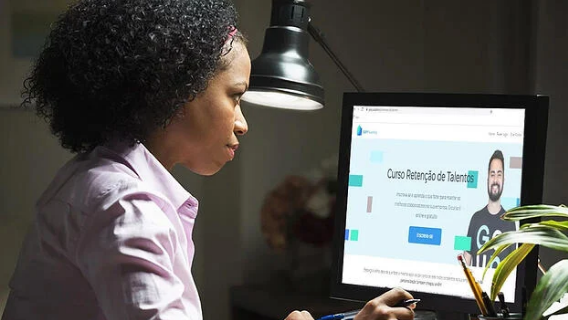
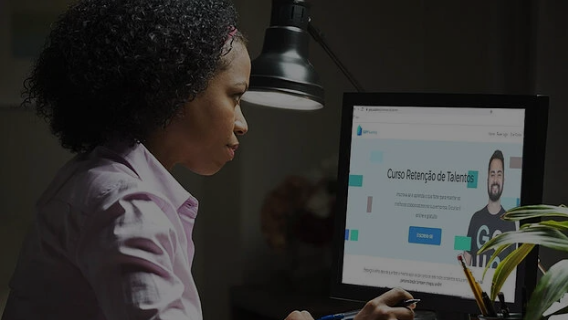
Visual geral
-Tirei o fundo escuro dos "h2" e "p"]

-Deixei as imagens mais escuras pra visualização melhor do texto.

-Adicionei o botão de login com um visual bem chamativo.

-Mudei a imagem de logo pra "gabrielmini.jpg", favor usar apenas essa a partir de agora

-Aumentei a fonte na parte "Quem Somos"

-Adicionei uma logo bem grande no meio da tela

diff --git a/Projeto Produza+/public/styleLogin.css b/Projeto Produza+/public/styleLogin.css
@@ -1,0 +1,152 @@
+:root{
+    --input-error: rgb(255, 71, 71);
+    --input-success: green;
+    --button-linear: linear-gradient(120deg, rgba(56, 25, 85, 0.8), rgba(255, 0, 234, 0.8), rgba(48, 26, 66, 0.8));
+    --button-disabled: #acacac;
+    --white: #fff;
+    --black: #303030;
+    --gray: #929292;
+    --light-gray: #cfcfcf;
+    --border-height: 1px;
+}
+
+body{
+    margin: 0;
+    padding: 0;
+    font-family: sans-serif;
+}
+.login{
+    width: 100vw;
+    height: 100vh;
+    background: url("./imgs/main.jpg"); 
+    background-size: cover;
+    margin: 0;
+    display: flex;
+    justify-content: center;
+    align-items: center;
+}
+
+.login__container{
+    min-height: 400px;
+    width: 380px;
+    background-color: #ffffff;
+    box-sizing: border-box;
+    padding: 32px;
+    border-radius: 8px;
+    display: flex;
+    flex-direction: column;
+    align-items: center;
+    margin-top: 1%;
+}
+.login__form {
+    width: 100%;
+    display: flex;
+    flex-direction: column;
+    align-items: center;
+    justify-items: center;
+}
+
+#logo{
+    margin-bottom: 12%;
+    text-align: center;
+    font-family: Arial, Helvetica, sans-serif;
+    background-color: rgba(0, 0, 0, 0); 
+    max-height: 100px;
+}
+
+input{
+    font-size: 15px;
+    padding: 2%;
+}
+a{
+    color: #303030;
+    text-decoration: none;
+}
+.login__reset {
+    text-align: center;
+    font-size: 14px;
+    font-weight: bold;
+    color: #303030;
+    text-decoration: none;
+} 
+.h3, h3{
+    margin-top: 5px;
+    text-align: center;
+    font-size: 14px;
+    font-weight: bold;
+    color: #303030;
+    text-decoration: none;
+}
+.h2, h2{
+    text-align: center;
+    font-size: 14px;
+    font-weight: bold;
+    color: #303030;
+    text-decoration: none;
+}
+.login__input-border{
+    height: 1px;
+    width: 100%;
+    margin-bottom: 16px;
+    background: #cfcfcf;
+    transition: .3s ease-in-out;
+}
+.login__input{
+    height: 48px;
+    width: 100%;
+    box-sizing: border-box;
+    border: unset;
+    outline: none;
+    padding-left: 8px;
+    font-size: 18px;
+}
+.login__submit{
+    height: 48px;
+    width: 100%;
+    outline: none;
+    background: linear-gradient(120deg, rgba(56, 25, 85, 0.8), rgba(255, 0, 234, 0.8), rgba(16, 3, 90, 0.8));
+    background-size: 200%;
+    margin-bottom: 32px;
+    color: rgb(255, 255, 255);
+    font-size: 16px;
+    font-weight: bold;
+    border: unset;
+    border-radius: 4px;
+    cursor: pointer;
+    transition: 0.5s ease-in-out;
+}
+.login__submit:hover {
+    background-position: right;
+}
+.login__submit:disabled{
+    background: var(--button-disabled);
+    cursor: not-allowed;
+}
+.login__submit.error{
+    background: var(--input-error);
+}
+.login__submit.success{
+    background: var(--input-success);
+}
+.login__input:focus + .login__input-border::after {
+    width: 100%;
+}
+.login__input-border::after {
+    content: "";
+    display: block;
+    height: 1px;
+    width: 0;
+    background: linear-gradient(217deg, rgba(56, 25, 85, 0.8), rgba(255,0,0,0) 70.71%),
+    linear-gradient(127deg, rgba(255, 0, 234, 0.8), rgba(0,255,0,0) 70.71%),
+    linear-gradient(336deg, rgba(255, 251, 0, 0.8), rgba(0,0,255,0) 70.71%);
+    transition: 0.3s ease-in-out;
+}
+.login__input-border.error {
+    background: var(--input-error);
+}
+.login__input-border.error::after {
+    background: var(--input-error);
+}
+.icones:hover{
+    cursor: pointer;
+}

diff --git a/Projeto Produza+/testePrincipal.html b/Projeto Produza+/testePrincipal.html
@@ -34,7 +34,7 @@
       <!-- add essa class -->
       <nav class="navbar navbar-expand-lg fixed-top navbar-dark">
         <a class="navbar-brand" href="testeLogin.html">
-          <img id="logo" src="public/imgs/produza+.png" alt="Produza+">
+          <img id="logo" src="public/imgs/gabrielmini.png" alt="Produza+">
         </a>
         <button class="navbar-toggler" type="button" data-toggle="collapse" data-target="#navbar-links"
           aria-controls="navbar-links" aria-expanded="false" aria-label="Toggle navigation">
@@ -42,12 +42,11 @@
         </button>
         <div class="collapse navbar-collapse justify-content-end" id="navbar-links">
           <div class="navbar-nav">
-            <a class="nav-item nav-link" id="home-menu" href="#">Home</span></a>
+            <a href="testeLogin.html"><button role="button" class="btn btn-primary btn-sm" id="botaofeio">Login</button></a>
             <a class="nav-item nav-link" id="about-menu" href="#">Quem Somos</a>
             <a class="nav-item nav-link" id="services-menu" href="#">Serviços</a>
             <!--<a class="nav-item nav-link" id="team-menu" href="#">Time</a>-->
             <a class="nav-item nav-link" id="contact-menu" href="#">Contato</a>
-            <a class="nav-item nav-link" id="login-menu" href="#">Login</a>
           </div>
         </div>
       </nav>
@@ -104,9 +103,9 @@
       <div id="about-area">
         <div class="container">
           <div class="row">
-            <div class="col-12">
-              <h3 class="main-title">Sobre a Produza+</h3>
-            </div>
+            <div class="col-md-12 offset-md-3">
+              <img id="imagemLogo" src="public/imgs/gabrielmini.png" class="img-fluid">
+            </div><div class="col-12"><h3 class="main-title">Sobre a Produza+</h3></div>
             <div class="col-md-6">
               <img class="img-fluid" src="public/imgs/agencia.jpg" alt="Agência Produza+">
             </div>
@@ -180,20 +179,6 @@
         </div>
       </div>
     </div>
-    <div id="login-area">
-      <div class="container">
-          <div class="col-md-6" id="msg-box">
-            <p>Login:</p>
-          </div>
-          <div class="col-md-6" id="contact-form">
-            <form action="">
-              <input type="email" class="form-control" placeholder="E-mail" name="email">
-              <input type="password" class="form-control" placeholder="Senha" name="subject">
-              <input type="submit" class="main-btn">
-            </form>
-          </div>
-        </div>
-      </div>
     </div>
     <div id="copy-area">
       <div class="container">

diff --git a/Projeto Produza+/testeLogin.html b/Projeto Produza+/testeLogin.html
@@ -1,0 +1,38 @@
+<!DOCTYPE html>
+<html lang="en">
+<head>
+    <meta charset="UTF-8">
+    <meta http-equiv="X-UA-Compatible" content="IE=edge">
+    <meta name="viewport" content="width=device-width, initial-scale=1.0">
+    <title>PRODUZA+ main</title>
+    <link href="https://cdn.jsdelivr.net/npm/bootstrap@5.0.1/dist/css/bootstrap.min.css" rel="stylesheet" integrity="sha384-+0n0xVW2eSR5OomGNYDnhzAbDsOXxcvSN1TPprVMTNDbiYZCxYbOOl7+AMvyTG2x" crossorigin="anonymous">
+    <script src="https://cdn.jsdelivr.net/npm/bootstrap@5.0.1/dist/js/bootstrap.bundle.min.js" integrity="sha384-gtEjrD/SeCtmISkJkNUaaKMoLD0//ElJ19smozuHV6z3Iehds+3Ulb9Bn9Plx0x4" crossorigin="anonymous"></script>
+    <link rel="stylesheet" href="https://pro.fontawesome.com/releases/v5.10.0/css/all.css" integrity="sha384-AYmEC3Yw5cVb3ZcuHtOA93w35dYTsvhLPVnYs9eStHfGJvOvKxVfELGroGkvsg+p" crossorigin="anonymous"/>
+    <link rel = "icon" href = "public/imgs/bookCurso.png" type = "image/x-icon">
+    <script defer src="scripts.js"></script>
+    <link href="./public/styleLogin.css" rel="stylesheet">
+    </head>
+</head>
+<body>
+    <main class="login">
+        <div class="login__container container">
+            <div class="col-md-12 row align-items-start" id="logo">
+                <img src="./public/imgs/gabrielmini.png">
+            </div>  
+            <form class="col login__form col-md-12 row align-items-center">
+                <input class="login__input" type="email" placeholder="E-mail"/>
+                <span class="login__input-border"></span>
+                <input class="login__input" type="password" placeholder="Senha"/>
+                <span class="login__input-border"></span>
+                <button class="login__submit">Login</button>
+                <a class="login__reset" href="testeSenha.html"><h2>Esqueceu sua senha?</h2></a>
+            </form>
+            <div id="information" class="col-md-12 row align-items-end">
+                <a href="testeCtt.html" target="_blank">
+                    <h3>Quem somos | Contato | Serviços</h3></a>                   
+            </div>
+        </div>
+    </main>
+</body>
+</html>
+    

diff --git a/Projeto Produza+/public/stylePrincipal.css b/Projeto Produza+/public/stylePrincipal.css
@@ -7,28 +7,20 @@ body {
   .row {
     margin: 0;
   }
-  
-  #login-area
-  {
-    align-items: center;
-    margin: auto;
-    width: 50%;
-    padding: 10px;
-  }
 
   .container {
     margin: auto;
-    padding: 10px;
+    padding: 70px;
   }
   
   p, li {
     color: #444;
-    font-size: 14px;
+    font-size: 17px;
   }
   
   /* Barra de navegação */
   header, .navbar {
-    background-image: linear-gradient(to right, rgba(250, 245, 245, 0.5) , rgba(0, 0, 0, 0.5));
+    background-image: linear-gradient(to right, rgba(235, 204, 253, 0.5) , rgba(0, 0, 0, 0.5));
   }
   
   #nav-container {
@@ -61,6 +53,17 @@ body {
     border-bottom: 3px solid #FFF;
   }
   
+  #botaofeio
+  {
+    border-color: rgba(70,70,70,0.5);
+    background-color: rgba(70,70,70,0.5);
+    margin-top: 12px;
+    font-size: 1rem;
+    max-height: 3rem;
+    border-radius: 10px;
+    font-weight: bold;
+  }
+  
   /* Slider */
   
   .container-fluid {
@@ -78,7 +81,6 @@ body {
   #mainSlider .carousel-caption h2 {
     font-size: 50px;
     margin-bottom: 30px;
-    background-color:rgba(70,70,70,0.34);
     max-width: fit-content;
     margin: auto;
     width: 50%;
@@ -90,7 +92,6 @@ body {
     font-weight: 300;
     margin-bottom: 100px;
     color: #FFF;
-    background-color:rgba(70,70,70,0.34);
     max-width: fit-content;
     margin: auto;
     width: 50%;
@@ -161,6 +162,10 @@ body {
   #about-list i {
     color: #65DAF9;
     margin-right: 15px;
+  }
+  #imagemLogo
+  {
+    margin-bottom: 50px;
   }
   
   /* Serviços */
